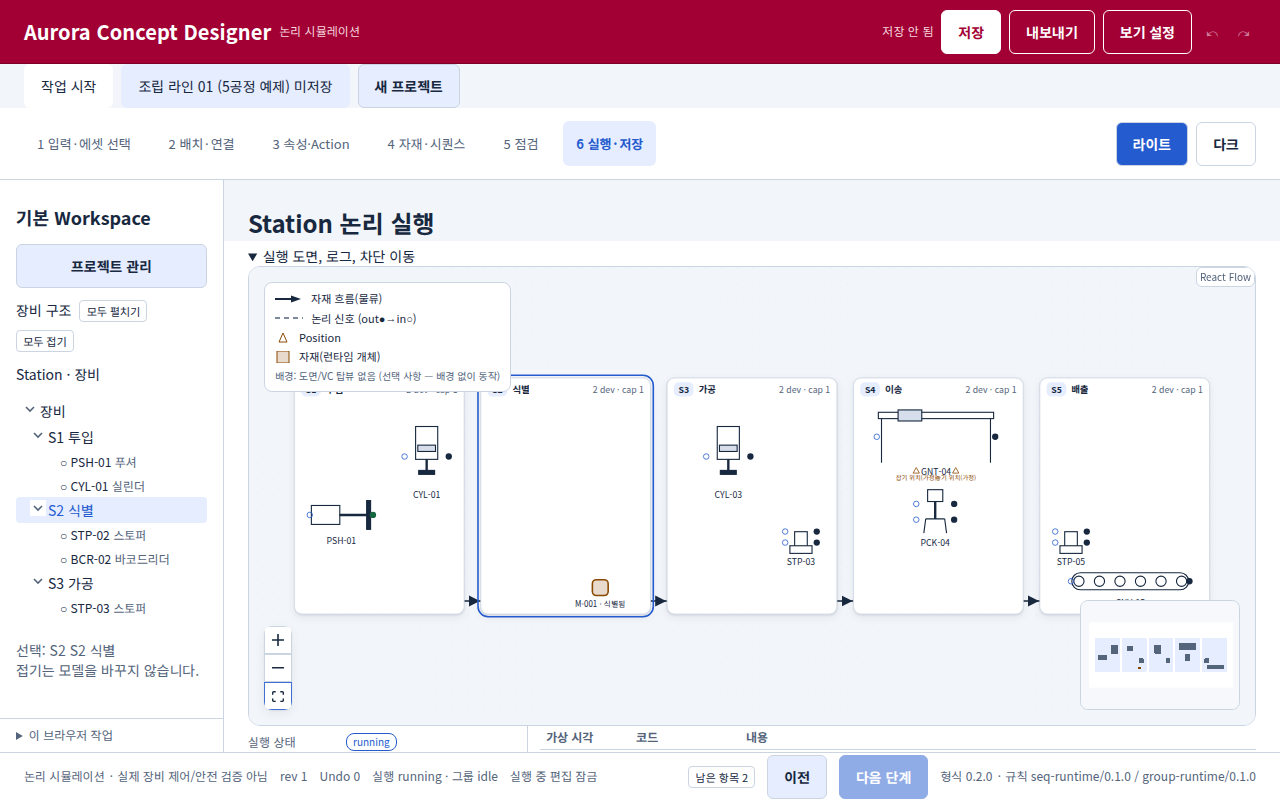
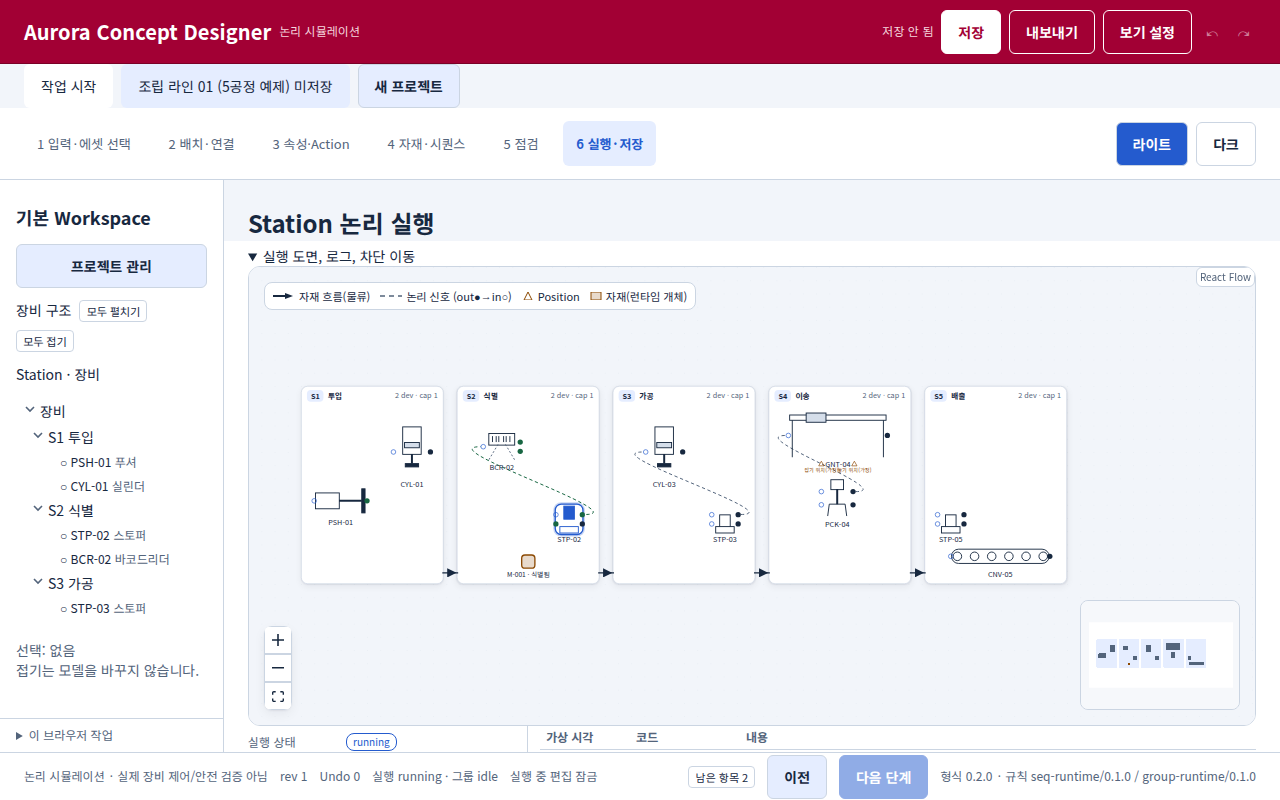
TURN-005: 선택 Unit이 장치와 신호선을 가리지 않게 한다
쌓임은 Unit 아래, Device·엣지·자재 위다. 범례는 높이 28px 한 줄이고, 처음 맞춤은 범례·미니맵·컨트롤을 비운다.

diff --git a/src/ui/Canvas.tsx b/src/ui/Canvas.tsx
@@ -278,7 +278,7 @@ function FlowCanvas(props: Props) {
     const o = off(u.id);
     const short = u.name.replace(new RegExp(`^${u.code}\\s*`), '');
     nodes.push({
-      id: u.id, type: 'unit', zIndex: selection.includes(u.id) ? 4 : 1,
+      id: u.id, type: 'unit', zIndex: selection.includes(u.id) ? 2 : 1,
       position: { x: u.layout.x + o.dx, y: u.layout.y + o.dy },
       width: u.layout.w, height: u.layout.h, measured: { width: u.layout.w, height: u.layout.h },
       draggable: false, selectable: false, connectable: false, deletable: false,
@@ -337,7 +337,7 @@ function FlowCanvas(props: Props) {
     for (const c of p.connections) if (c.kind === 'flow') {
       edges.push({
         id: c.id, type: 'flow', source: c.from.nodeId, target: c.to.nodeId, sourceHandle: 'flow-out', targetHandle: 'flow-in',
-        selected: selection.includes(c.id), selectable: true, deletable: false, className: 'nopan rf-edge-flow',
+        selected: selection.includes(c.id), selectable: true, deletable: false, zIndex: 3, className: 'nopan rf-edge-flow',
       });
     }
   }
@@ -345,7 +345,7 @@ function FlowCanvas(props: Props) {
     for (const c of p.connections) if (c.kind === 'signal' && c.from.signalId && c.to.signalId) {
       edges.push({
         id: c.id, type: 'signal', source: c.from.nodeId, target: c.to.nodeId, sourceHandle: c.from.signalId, targetHandle: c.to.signalId,
-        selected: selection.includes(c.id), selectable: true, deletable: false, className: 'nopan rf-edge-sig',
+        selected: selection.includes(c.id), selectable: true, deletable: false, zIndex: 3, className: 'nopan rf-edge-sig',
         data: { on: !!rt?.signals?.[c.from.signalId] } satisfies SigEdgeData,
       });
     }
@@ -360,7 +360,9 @@ function FlowCanvas(props: Props) {
       if (r.width > 40 && r.height > 40) {
         if (!fitted) {
           fitted = true;
-          void fitView({ padding: 0.15, duration: 0, minZoom: 0.5, maxZoom: 2 });
+          // Side insets keep the first fit clear of the 28px legend, 28px controls, and 160×110 minimap.
+          // Panel margin is 15px. Later pan and zoom may overlap those; that is allowed.
+          void fitView({ padding: { top: '48px', right: '188px', bottom: '140px', left: '52px' }, duration: 0, minZoom: 0.5, maxZoom: 2 });
         }
       } else fitted = false;
     });
@@ -418,6 +420,7 @@ function FlowCanvas(props: Props) {
         nodesFocusable={false}
         edgesFocusable={false}
         elevateNodesOnSelect={false}
+        zIndexMode="manual"
         deleteKeyCode={null}
         selectionKeyCode={null}
         multiSelectionKeyCode={null}
@@ -442,12 +445,11 @@ function FlowCanvas(props: Props) {
           nodeColor={(n) => n.type === 'unit' ? pal.selected : n.type === 'device' ? pal.muted : pal.warning}
           ariaLabel="도면 미니맵"
         />
-        <Panel position="top-left" className="rf-legend nopan">
-          <div><svg width="28" height="10" aria-hidden="true"><line x1="0" y1="5" x2="20" y2="5" stroke="var(--text)" strokeWidth="2" /><path d="M16 1.5 L26 5 L16 8.5 Z" fill="var(--text)" /></svg>자재 흐름(물류)</div>
-          <div><svg width="28" height="10" aria-hidden="true"><line x1="0" y1="5" x2="28" y2="5" stroke="var(--muted)" strokeWidth="1.5" strokeDasharray="5 4" /></svg>논리 신호 (out●→in○)</div>
-          <div><svg width="16" height="12" aria-hidden="true"><path d="M8 1 L4 10 L12 10 Z" fill="none" stroke="var(--warning)" /></svg>Position</div>
-          <div><svg width="16" height="12" aria-hidden="true"><rect x="2" y="0" width="12" height="12" fill="var(--warning)" fillOpacity={0.2} stroke="var(--warning)" /></svg>자재(런타임 개체)</div>
-          {L.background && <div className="rf-bg-note">배경: 도면/VC 탑뷰 없음 (선택 사항 — 배경 없이 동작)</div>}
+        <Panel position="top-left" className="rf-legend nopan" title="배경: 도면/VC 탑뷰 없음 (선택 사항 — 배경 없이 동작)">
+          <div><svg width="22" height="8" aria-hidden="true"><line x1="0" y1="4" x2="14" y2="4" stroke="var(--text)" strokeWidth="2" /><path d="M12 1 L20 4 L12 7 Z" fill="var(--text)" /></svg>자재 흐름(물류)</div>
+          <div><svg width="22" height="8" aria-hidden="true"><line x1="0" y1="4" x2="22" y2="4" stroke="var(--muted)" strokeWidth="1.5" strokeDasharray="5 4" /></svg>논리 신호 (out●→in○)</div>
+          <div><svg width="12" height="8" aria-hidden="true"><path d="M6 0 L2 8 L10 8 Z" fill="none" stroke="var(--warning)" /></svg>Position</div>
+          <div><svg width="12" height="8" aria-hidden="true"><rect x="1" y="0" width="10" height="8" fill="var(--warning)" fillOpacity={0.2} stroke="var(--warning)" /></svg>자재(런타임 개체)</div>
         </Panel>
       </ReactFlow>
     </div>

diff --git a/tests/canvas-flow.test.tsx b/tests/canvas-flow.test.tsx
@@ -103,6 +103,23 @@ describe('React Flow canvas (TURN-005)', () => {
     await act(async () => { root.unmount(); });
   });
 
+  it('a selected unit stays under its devices, signal edges, and the material', async () => {
+    const { el, root, point } = await mount();
+    const z = (id: string) => Number((el.querySelector(`.react-flow__node[data-id="${id}"]`) as HTMLElement).style.zIndex);
+    const at = pos(el, 'U-S2');
+    await point(el.querySelector('[data-id="U-S2"] .rf-unit')!, 'pointerdown', at.x + 8, at.y + 8);
+    await point(el.querySelector('[data-id="U-S2"] .rf-unit')!, 'pointerup', at.x + 8, at.y + 8);
+    expect(el.querySelector('[data-id="U-S2"] .rf-unit')?.classList.contains('is-sel')).toBe(true);
+    expect(z('BCR-02')).toBeGreaterThan(z('U-S2'));
+    expect(z('STP-02')).toBeGreaterThan(z('U-S2'));
+    expect(z('runtime-material')).toBeGreaterThan(z('U-S2'));
+    const edgeSvg = el.querySelector('.rf-edge-sig')?.closest('svg') as SVGElement;
+    expect(Number(edgeSvg.style.zIndex)).toBeGreaterThan(z('U-S2'));
+    expect(el.querySelector('.rf-legend')?.getAttribute('title')).toContain('배경: 도면/VC 탑뷰 없음');
+    expect(el.querySelector('.rf-bg-note')).toBeNull();
+    await act(async () => { root.unmount(); });
+  });
+
   it('AC4 toolbar, controls, and wheel change zoom without writing model coordinates', async () => {
     const { el, root, click, rev } = await mount();
     const before = pos(el, 'U-S1');
@@ -209,6 +226,8 @@ describe('React Flow canvas (TURN-005)', () => {
     expect(section).toContain('background: var(--panel)');
     expect(section).toContain('border: 1px solid var(--border)');
     expect(section).toContain('height: 28px');
+    expect(section).toMatch(/\.rf-legend \{[\s\S]*?height: 28px/);
+    expect(section).toMatch(/\.rf-legend \{[\s\S]*?flex-direction: row/);
     expect(section).toContain('background: var(--selected)');
     expect(section).toContain('border-radius: 6px');
     expect(section).toContain('font-weight: 600');

diff --git a/tests/theme-contrast.test.ts b/tests/theme-contrast.test.ts
@@ -82,15 +82,16 @@ describe('theme colors', () => {
     }
   });
 
-  it('AC8 control border uses --border; light panel pair stays under 3:1 so no new color is introduced', () => {
+  it('AC8 control icon --text is at least 3:1 on --panel, and the button border stays --border', () => {
     const css = readFileSync('src/ui/styles.css', 'utf8');
     const section = css.slice(css.indexOf('/* TURN-005'));
     expect(section).toMatch(/\.react-flow__controls-button \{[\s\S]*border: 1px solid var\(--border\)/);
-    // --border on the button face (--panel): light 1.48, dark 2.75. Dark --border on --canvas clears 3.
-    expect(ratio(THEMES.A.vars.border, THEMES.A.vars.panel)).toBeLessThan(3);
-    expect(ratio(THEMES.A.vars.border, THEMES.A.vars.canvas)).toBeLessThan(3);
-    expect(ratio(THEMES.B.vars.border, THEMES.B.vars.panel)).toBeLessThan(3);
-    expect(ratio(THEMES.B.vars.border, THEMES.B.vars.canvas)).toBeGreaterThanOrEqual(3);
+    expect(section).toMatch(/\.react-flow__controls-button \{[\s\S]*color: var\(--text\)/);
+    expect(section).toMatch(/\.react-flow__controls-button \{[\s\S]*background: var\(--panel\)/);
+    for (const t of ['A', 'B'] as const) {
+      const v = THEMES[t].vars;
+      expect(ratio(v.text, v.panel), `${t} control icon`).toBeGreaterThanOrEqual(3);
+    }
   });
 
   it('header icon buttons are transparent with white text, and hover rules do not draw an outline', () => {

diff --git a/src/ui/styles.css b/src/ui/styles.css
@@ -607,16 +607,22 @@ table.grid.plain td, table.grid.plain th { font-size: 14px; height: 46px; }
   background: var(--panel);
   border: 1px solid var(--border);
   border-radius: 8px;
-  padding: 8px 10px;
+  box-sizing: border-box;
+  height: 28px;
+  max-height: 28px;
+  padding: 0 8px;
   font-size: 11px;
+  line-height: 1;
   color: var(--text);
   font-family: var(--font);
   display: flex;
-  flex-direction: column;
-  gap: 4px;
+  flex-direction: row;
+  align-items: center;
+  gap: 10px;
+  white-space: nowrap;
+  overflow: hidden;
 }
-.rf-legend > div { display: flex; align-items: center; gap: 8px; }
-.rf-bg-note { color: var(--muted); font-size: 10px; }
+.rf-legend > div { display: flex; align-items: center; gap: 4px; }
 .react-flow__attribution {
   background: var(--panel);
   border: 1px solid var(--border);

diff --git a/docs/turns/TURN-005.md b/docs/turns/TURN-005.md
@@ -8,7 +8,13 @@
 
 의존성은 `@xyflow/react` 하나다. `style.css` 는 가져오지 않고 `dist/base.css` 만 가져온다. 색은 기존 토큰만 쓴다. 새 색 리터럴은 Unit·컨트롤 그림자 `rgba(16, 24, 40, .06)` 뿐이다.
 
-휠 확대는 0.5–2, 빈 곳 드래그로 이동, 열 때 `fitView`(여백 0.15), 미니맵, 확대·축소·전체 보기 컨트롤을 넣었다. 더블클릭 확대는 규격에 없어 껐다.
+휠 확대는 0.5–2, 빈 곳 드래그로 이동, 미니맵, 확대·축소·전체 보기 컨트롤을 넣었다. 더블클릭 확대는 규격에 없어 껐다.
+
+선택 표시는 링만 쓴다. 쌓임은 Unit 1, 선택 Unit 2, 물류·신호 엣지 3, Device 3, 선택 Device 6, 자재 8 이다. `zIndexMode` 는 `manual` 이라 선택이 이 숫자를 더 올리지 않는다. 그래서 선택한 Unit 이 자기 Device 와 신호선을 가리지 않는다.
+
+범례는 왼쪽 위 가로 한 줄, 높이 28px, 항목 4개다. 「배경: 도면/VC 탑뷰 없음…」은 범례 문장에서 빼고 그 Panel 의 `title` 툴팁으로 두었다. 처음 `fitView` 여백은 위 48px, 오른쪽 188px, 아래 140px, 왼쪽 52px 이다. 범례(28px), 컨트롤(28px), 미니맵(160×110)과 패널 여백 15px 를 비운 값이다. 1280×800 에서는 최소 확대 0.5 에 걸려 표시가 50% 가 된다. 그 다음 사용자가 옮기거나 확대하면 겹쳐도 된다.
+
+`diagramOpen` 은 확대율이 바뀌어 부모가 다시 그려질 때, 제어되는 `open={false}` 가 사용자가 연 도면을 바로 닫지 않게 연 상태를 유지한다. 접기 위치는 그대로다.
 
 ## 하지 않은 것
 
@@ -26,11 +32,11 @@
 
 | 종류 | 결과 |
 |---|---|
-| 자동 테스트 | `npm test` 15파일 363개 통과. 캔버스 교체·다중 이동 1회 Undo·소속 변경 모달·확대가 모델을 안 바꾸는 것·연결·레이어·정렬·삭제·실행 잠금·CSS 토큰·대비를 포함한다. 이 숫자는 이 문서 작성 시점의 로컬 실행이다. 통과 판정은 CI 를 따른다 |
+| 자동 테스트 | `npm test` 15파일 364개 통과. 캔버스 교체·다중 이동 1회 Undo·소속 변경 모달·선택 Unit 보다 Device·신호선·자재가 위·확대가 모델을 안 바꾸는 것·연결·레이어·정렬·삭제·실행 잠금·CSS 토큰·컨트롤 아이콘 대비를 포함한다. 이 숫자는 이 문서 작성 시점의 로컬 실행이다. 통과 판정은 CI 를 따른다 |
 | 형식 검사 | `npm run typecheck` 통과 (`npm run build` 의 tsc 포함) |
 | 빌드 | `npm run build` 로 크기만 재고 `release/` 는 되돌렸다. 전 3,890,485바이트, 후 4,102,530바이트, 증가 212,045바이트 |
 | jsdom | `ResizeObserver`, `DOMMatrixReadOnly`, `PointerEvent` 대역을 둔다. 대역으로 노드 이동·모달·툴바 확대·컨트롤 확대·휠 뒤 rev 불변·레이어·연결을 봤다. 대역은 레이아웃 엔진이 아니다 |
-| Chrome | 156 계열 headless, CSS 뷰포트 1280×800, devicePixelRatio 1. 콘솔 오류 0. 휠로 확대율이 56%에서 74%로 바뀌고 rev 는 1, Unit 변환은 `translate(30px, 70px)` 그대로였다. 툴바를 150%로 맞춘 뒤에도 그 변환과 rev 는 같았다. 실행 중 신호선에 `rf-sig-on`(`stroke: var(--success)`), 활성 장치, 자재 라벨이 있었다. `prefers-reduced-motion: reduce` 에서 그 선의 `animation-name` 은 `none` 이었다. Unit 모서리 10px, 머리띠 28px, 장치 이름 11px, 컨트롤 28px, 미니맵 160×110, 라이트 그림자와 다크 `box-shadow: none` 을 계산 스타일로 봤다 |
+| Chrome | 156.0.8078.47 headless, CSS 뷰포트 1280×800, devicePixelRatio 1. 콘솔 오류 0. S2 를 선택해도 BCR-02·STP-02 의 z-index 는 3, Unit 은 2 이고 장치 이름이 남았다. 처음 맞춤에서 범례·미니맵·컨트롤과 노드 사각형이 겹치지 않았고, 범례 높이는 28px, 확대 표시는 50% 였다. S2 를 106% 로 확대하면 STP-02·BCR-02 와 포트 7개, 신호선 3개가 화면 안에 있다. 실행 중 활성 장치는 BCR-02, ON 신호선 `rf-sig-on` 1개, 자재 `M-001 · 투입됨`, 편집 잠금이었다. 이전 확인에서 휠 56%→74% 와 reduced-motion `animation-name: none` 도 봤다 |
 
 그림은 이 폴더에 있다.
 
@@ -38,14 +44,13 @@
 - `docs/turns/TURN-005-canvas-dark-1280.png`
 - `docs/turns/TURN-005-run-light-1280.png`
 - `docs/turns/TURN-005-zoom-minimap-1280.png`
+- `docs/turns/TURN-005-signal-s2-1280.png`
 
-노드 글자(`--text`, `--muted`)는 `--panel` / `--canvas` / `--selected` 에서 4.5:1 이상이다. 포트·물류선·신호선·자재 테두리에 쓰는 `--text` `--accent` `--muted` `--success` `--warning` 은 `--panel` / `--canvas` 에서 3:1 이상이다. 컨트롤 테두리 토큰 `--border` 는 라이트에서 `--panel` 대비 1.48:1, `--canvas` 대비 1.36:1 이고, 다크에서 `--panel` 대비 2.75:1 이다. 다크 `--canvas` 대비만 3.19:1 이다.
+노드 글자(`--text`, `--muted`)는 `--panel` / `--canvas` / `--selected` 에서 4.5:1 이상이다. 포트·물류선·신호선·자재 색은 `--panel` / `--canvas` 에서 3:1 이상이다. 컨트롤은 아이콘 `--text` 가 `--panel` 위에서 3:1 이상이라 테두리 대비는 그 아이콘으로 본다. 버튼 테두리는 `--border` 그대로다.
 
 ## 확인 필요
 
-- AC8 컨트롤 테두리. 규격은 `var(--border)` 라서 그 토큰을 썼다. 라이트와 다크 버튼 면에서는 3:1 에 못 미친다. 새 색은 만들지 않았다.
-- AC12 사람 검수는 Matthew 몫이다. 이 문서는 완료로 적지 않는다.
+- AC12 사람 검수는 Matthew 몫이다. 이 문서는 완료로 적지 않는다. 처음 맞춤이 50% 라 머리띠 글자가 작다. 이번 검토에서 키우지 말라고 한 항목이라 그대로 두었다.
 - 미니맵 마스크는 라이브러리가 뷰포트 바깥에 칠한다. 색은 `--canvas` 를 0.7 로 푼 값이다.
 - React Flow 표시(attribution)는 숨기지 않았다. 미니맵과 겹치지 않게 오른쪽 위로 옮기고 토큰으로만 칠했다.
 - 더블클릭 확대는 끄다. 자재 미니맵 색은 `--warning` 이다.
-- 확대율이 바뀌며 부모가 다시 그려질 때 도면 접기가 바로 닫히지 않게, 사용자가 연 상태는 유지한다. 접기 위치는 그대로다.
